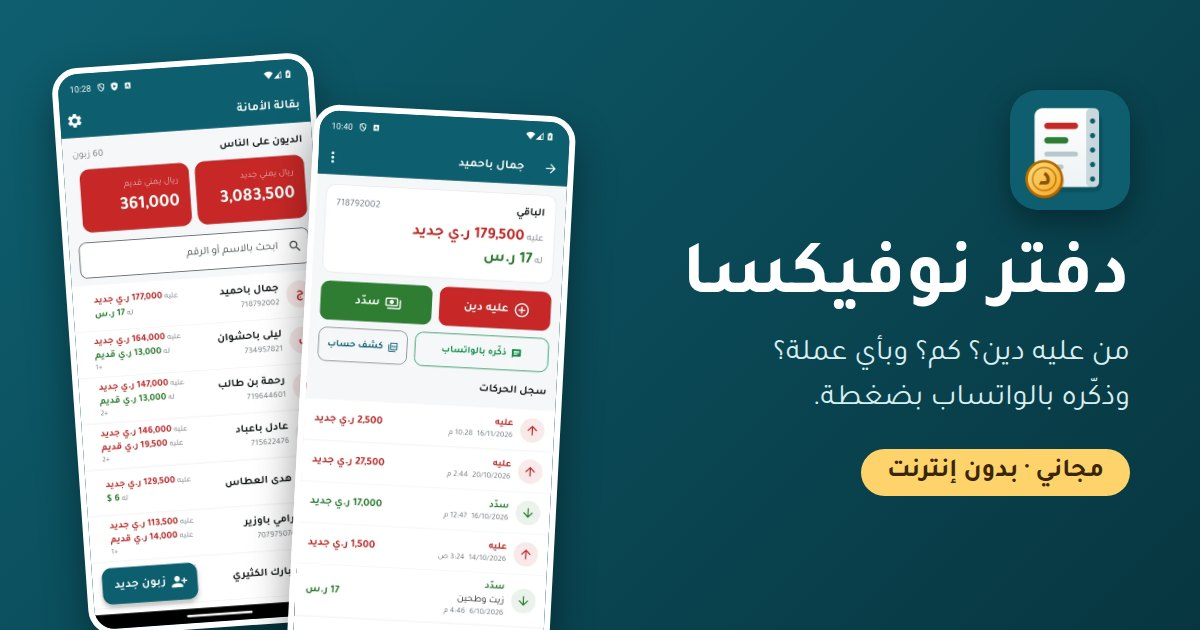
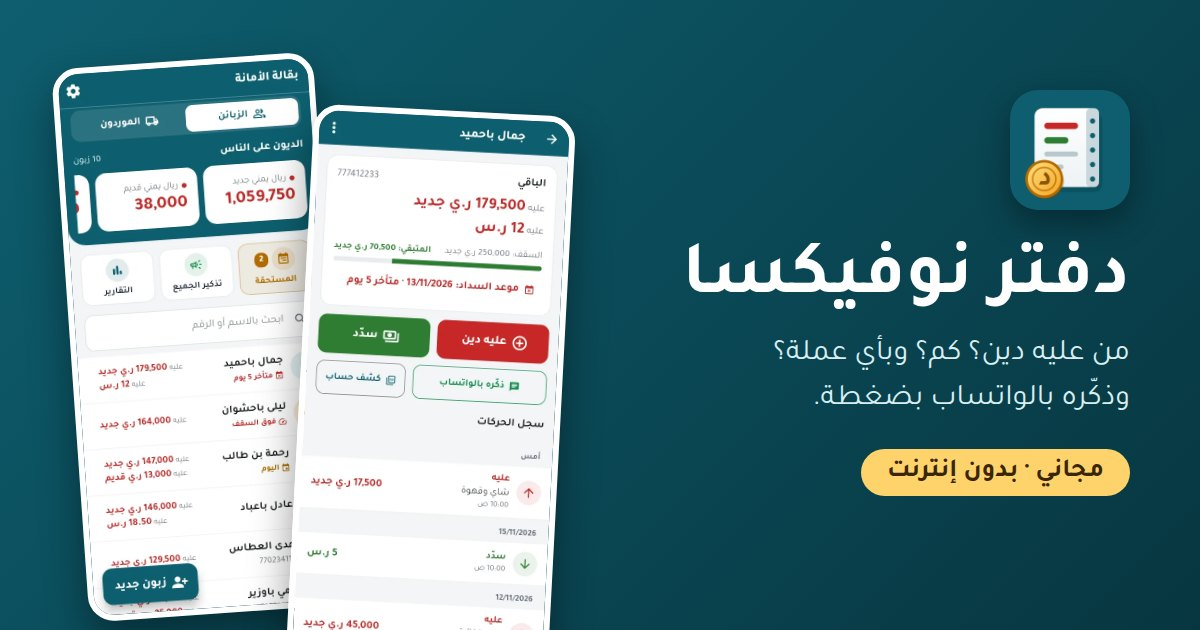
صور الواجهات الجديدة (1.1.1): الرئيسية، الزبون، تسجيل دين، المستحقة، التقارير، الموردون

Changed region(s): [[0.0308, 0.0905, 0.4933, 1.0], [0.37, 0.7238, 0.4625, 0.9952], [0.2775, 0.6635, 0.3083, 0.6937]]

diff --git a/index.html b/index.html
@@ -37,6 +37,8 @@
     "https://momabdu7777-maker.github.io/dafter/shots/home.webp",
     "https://momabdu7777-maker.github.io/dafter/shots/customer.webp",
     "https://momabdu7777-maker.github.io/dafter/shots/record.webp",
+    "https://momabdu7777-maker.github.io/dafter/shots/due.webp",
+    "https://momabdu7777-maker.github.io/dafter/shots/reports.webp",
     "https://momabdu7777-maker.github.io/dafter/shots/statement.webp"
   ],
   "inLanguage": "ar",
@@ -129,11 +131,14 @@ footer a{color:var(--teal);font-weight:700}
   </div>
 
   <div class="shots" tabindex="0" aria-label="صور من التطبيق">
-    <img src="shots/home.webp" width="540" height="1200" alt="الرئيسية: إجمالي الديون على الناس بالريال الجديد والقديم، والزبائن مرتبون بالأكبر ديناً مع البحث">
-    <img src="shots/customer.webp" width="540" height="1200" alt="صفحة الزبون: الباقي بكل عملة، وزرّا عليه دين وسدّد، وذكّره بالواتساب، وسجل الحركات" loading="lazy">
-    <img src="shots/record.webp" width="540" height="1200" alt="تسجيل دين: اكتب المبلغ واختر العملة واضغط حفظ" loading="lazy">
+    <img src="shots/home.webp" width="540" height="1170" alt="الرئيسية: تبويبا الزبائن والموردين، إجمالي الديون لكل عملة، اختصارات المستحقة وتذكير الجميع والتقارير، والزبائن مرتبون بالأكبر ديناً">
+    <img src="shots/customer.webp" width="540" height="1170" alt="صفحة الزبون: الباقي بكل عملة، سقف الدين وموعد السداد، وزرّا عليه دين وسدّد، وذكّره بالواتساب" loading="lazy">
+    <img src="shots/record.webp" width="540" height="1170" alt="تسجيل دين: اكتب المبلغ واختر العملة وموعد السداد واضغط حفظ" loading="lazy">
+    <img src="shots/due.webp" width="540" height="1170" alt="مواعيد السداد: المتأخرة واليوم والقادمة، مع زر تذكير الجميع" loading="lazy">
+    <img src="shots/reports.webp" width="540" height="1170" alt="التقارير: الديون الجديدة والتحصيل هذا الشهر لكل عملة، للزبائن والموردين" loading="lazy">
+    <img src="shots/suppliers.webp" width="540" height="1170" alt="الموردون: ما عليك لكل مورد بكل عملة" loading="lazy">
     <img class="doc" src="shots/statement.webp" width="540" height="723" alt="كشف حساب PDF بالعربية فيه الحركات والرصيد بكل عملة" loading="lazy">
-    <img src="shots/lock.webp" width="540" height="1200" alt="قفل الدفتر برمز سري من 4 أرقام" loading="lazy">
+    <img src="shots/lock.webp" width="540" height="1170" alt="قفل الدفتر برمز سري من 4 أرقام" loading="lazy">
   </div>
 
   <section>
